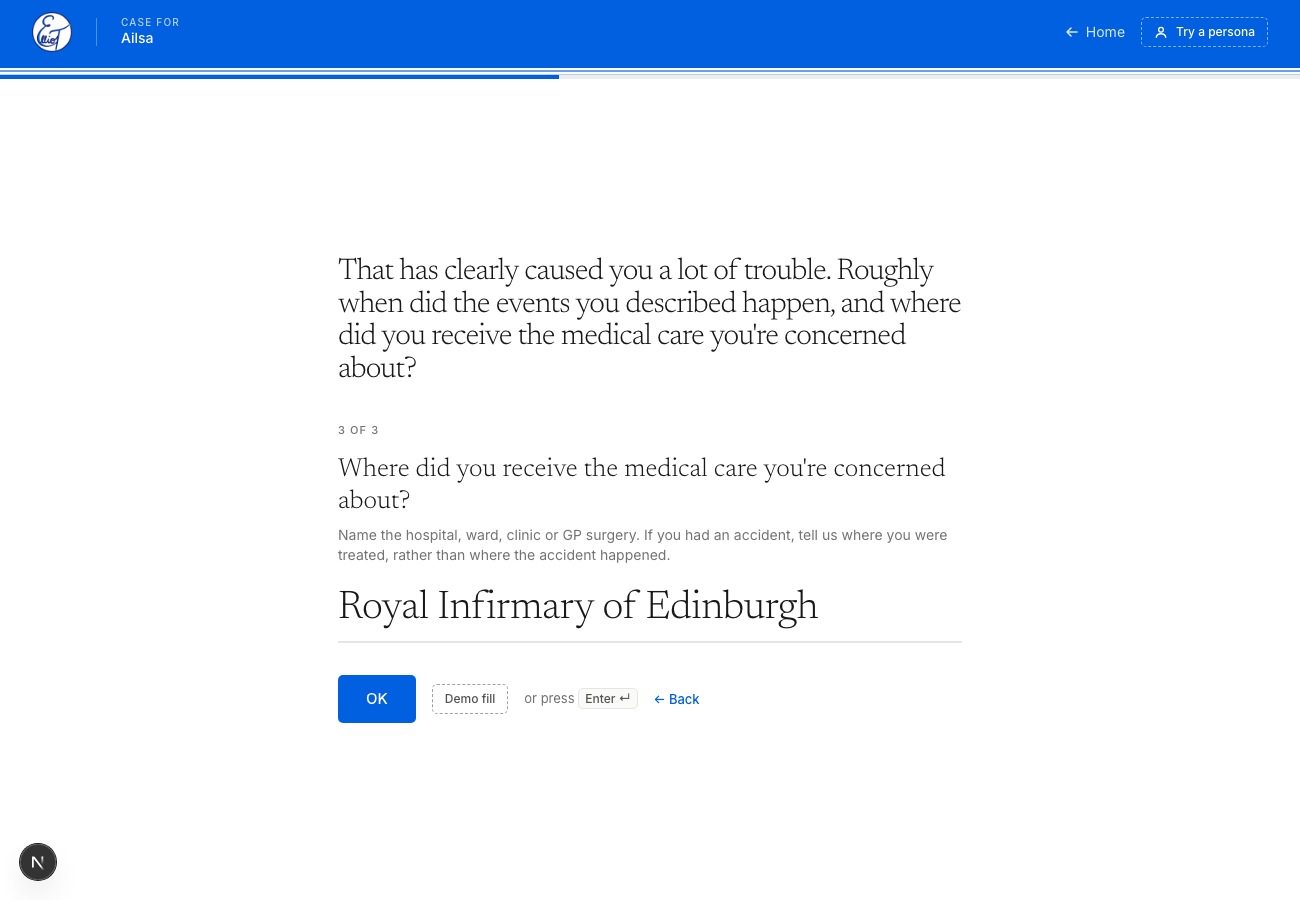
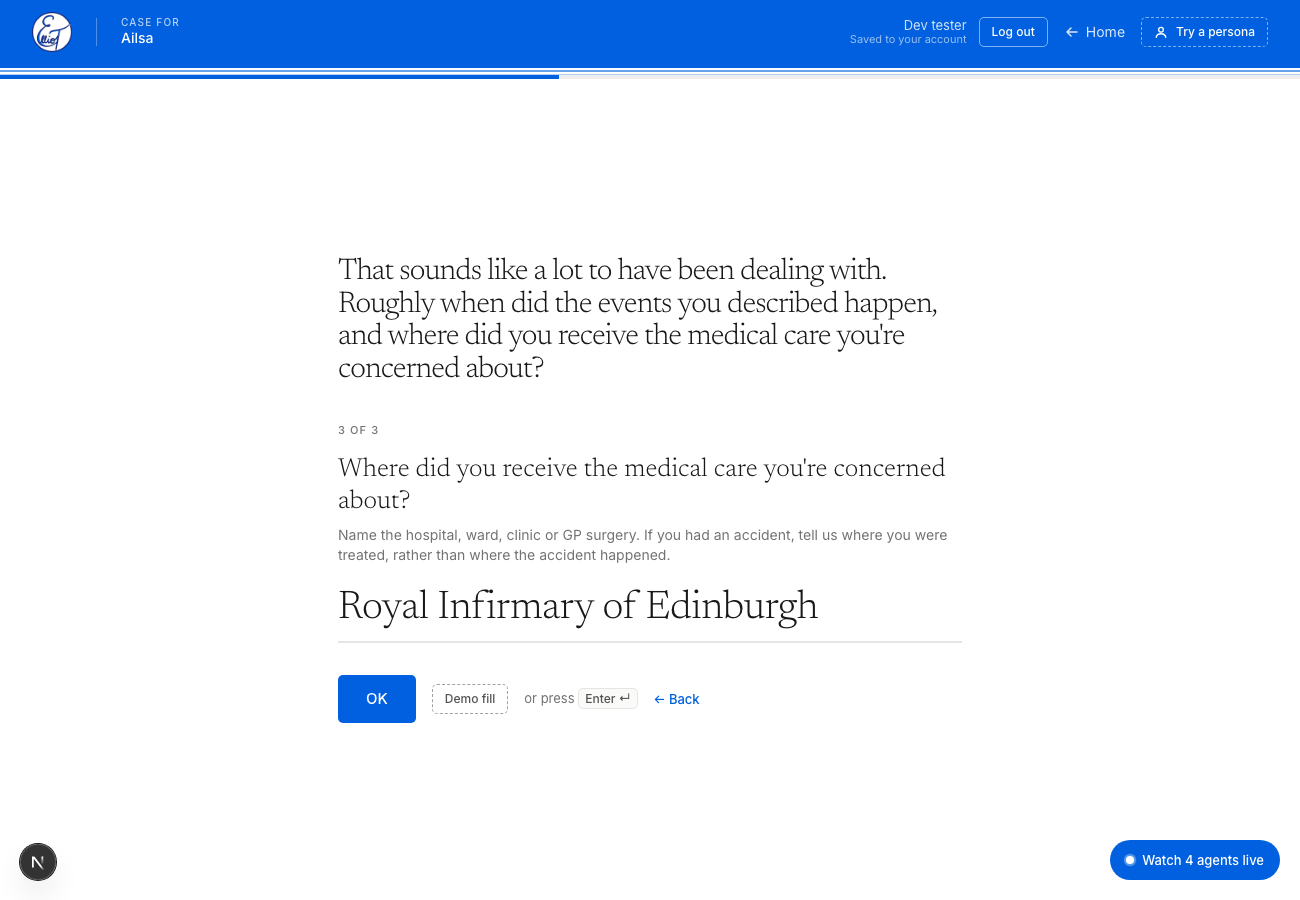
UI checks pass with accounts on: each check's case is saved to the test account as the newest copy (all of research auto-start, case auto-start, tiles, demo fill and sign-in pass)

diff --git a/scripts/devLogin.ts b/scripts/devLogin.ts
@@ -17,5 +17,8 @@ export async function devLogin(page: Page, base: string) {
  * seeds a case in the browser also saves it to the account. No-op when accounts or saving are off.
  */
 export async function seedAccount(page: Page, base: string, profile: { updatedAt?: string }) {
-  await page.request.put(`${base}/api/profile`, { data: { profile, updatedAt: profile.updatedAt ?? new Date().toISOString() } }).catch(() => null);
+  // Saved as the newest copy (the account keeps whichever copy is newest), so an earlier check's case never wins over this one.
+  const now = new Date().toISOString();
+  const r = await page.request.put(`${base}/api/profile`, { data: { profile: { ...profile, updatedAt: now }, updatedAt: now } }).catch(() => null);
+  if (r && r.status() === 409) await page.request.put(`${base}/api/profile`, { data: { profile: { ...profile, updatedAt: new Date(Date.now() + 1000).toISOString() }, updatedAt: new Date(Date.now() + 1000).toISOString() } }).catch(() => null);
 }

diff --git a/scripts/check-tiles-persist.ts b/scripts/check-tiles-persist.ts
@@ -40,7 +40,11 @@ const check = (ok: boolean, what: string) => {
     }
   }, [JSON.stringify(profile), `elliot-run-v1:${created}:discovery`, JSON.stringify(stored)]);
   await page.goto(`${BASE}/case?step=research`);
-  await page.locator("#live-slot").waitFor({ state: "attached", timeout: 30_000 });
+  const slot = await page.locator("#live-slot").waitFor({ state: "attached", timeout: 30_000 }).then(() => true, () => false);
+  if (!slot) {
+    await page.screenshot({ path: "/tmp/tiles-fail.png" });
+    console.log("no live slot at", page.url());
+  }
   await page.waitForTimeout(2000); // the live stream connects
   await page.evaluate((b) => fetch(`${b}/api/dev/live-fixture`, { method: "POST" }), BASE);
   const tiles = () => page.locator('#live-slot [title^="Watch "][title$=" up close"]').count();
